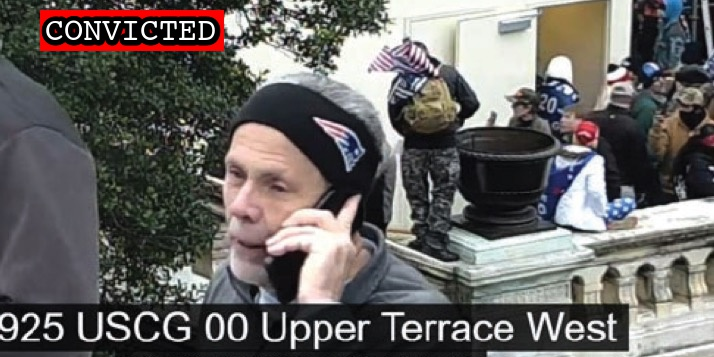
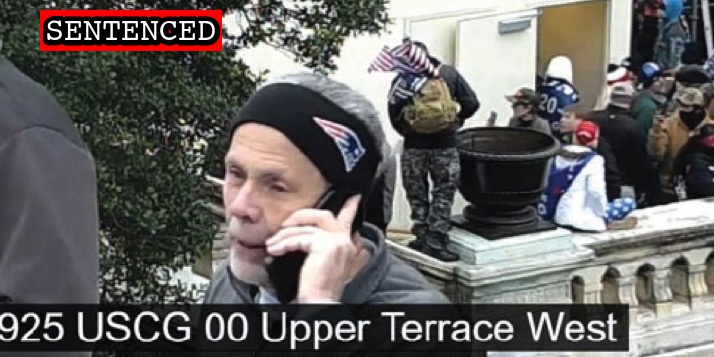
Colbath sentence

Changed region(s): [[0.0308, 0.0308, 0.2465, 0.1541], [0.3081, 0.0308, 0.3389, 0.1541]]

diff --git a/docs/_suspects/paul-colbath.md b/docs/_suspects/paul-colbath.md
@@ -4,15 +4,16 @@ lastName: Colbath
 hashtag:
 aka:
 residence: South Carolina
-status: Convicted
+status: Sentenced
 date: 2021-10-20
 charged: 2021-10-20
 indicted:
 convicted: 2022-01-10
-sentenced:
+sentenced: 2022-04-06
 dismissed:
 deceased:
 plea_hearing: 2022-01-10
+trial_date:
 sentencing: 2022-04-06
 age:
 occupation:
@@ -35,7 +36,12 @@ caseNumber: 1:21-cr-650
 videos:
 charges:
 sentence:
+  - 30 days home confinement
+  - 36 months probation
+  - 60 hours of community service
+  - $500 restitution
 ---
+
 - [News Report](https://www.postandcourier.com/news/indian-land-man-becomes-11th-south-carolinian-charged-with-storming-us-capitol-on-jan-6/article_010ebe26-37f0-11ec-8430-535d0750cf6d.html)
 - [Complaint](https://www.justice.gov/usao-dc/case-multi-defendant/file/1458821/download)
 - [Information](https://www.justice.gov/usao-dc/case-multi-defendant/file/1458826/download)
